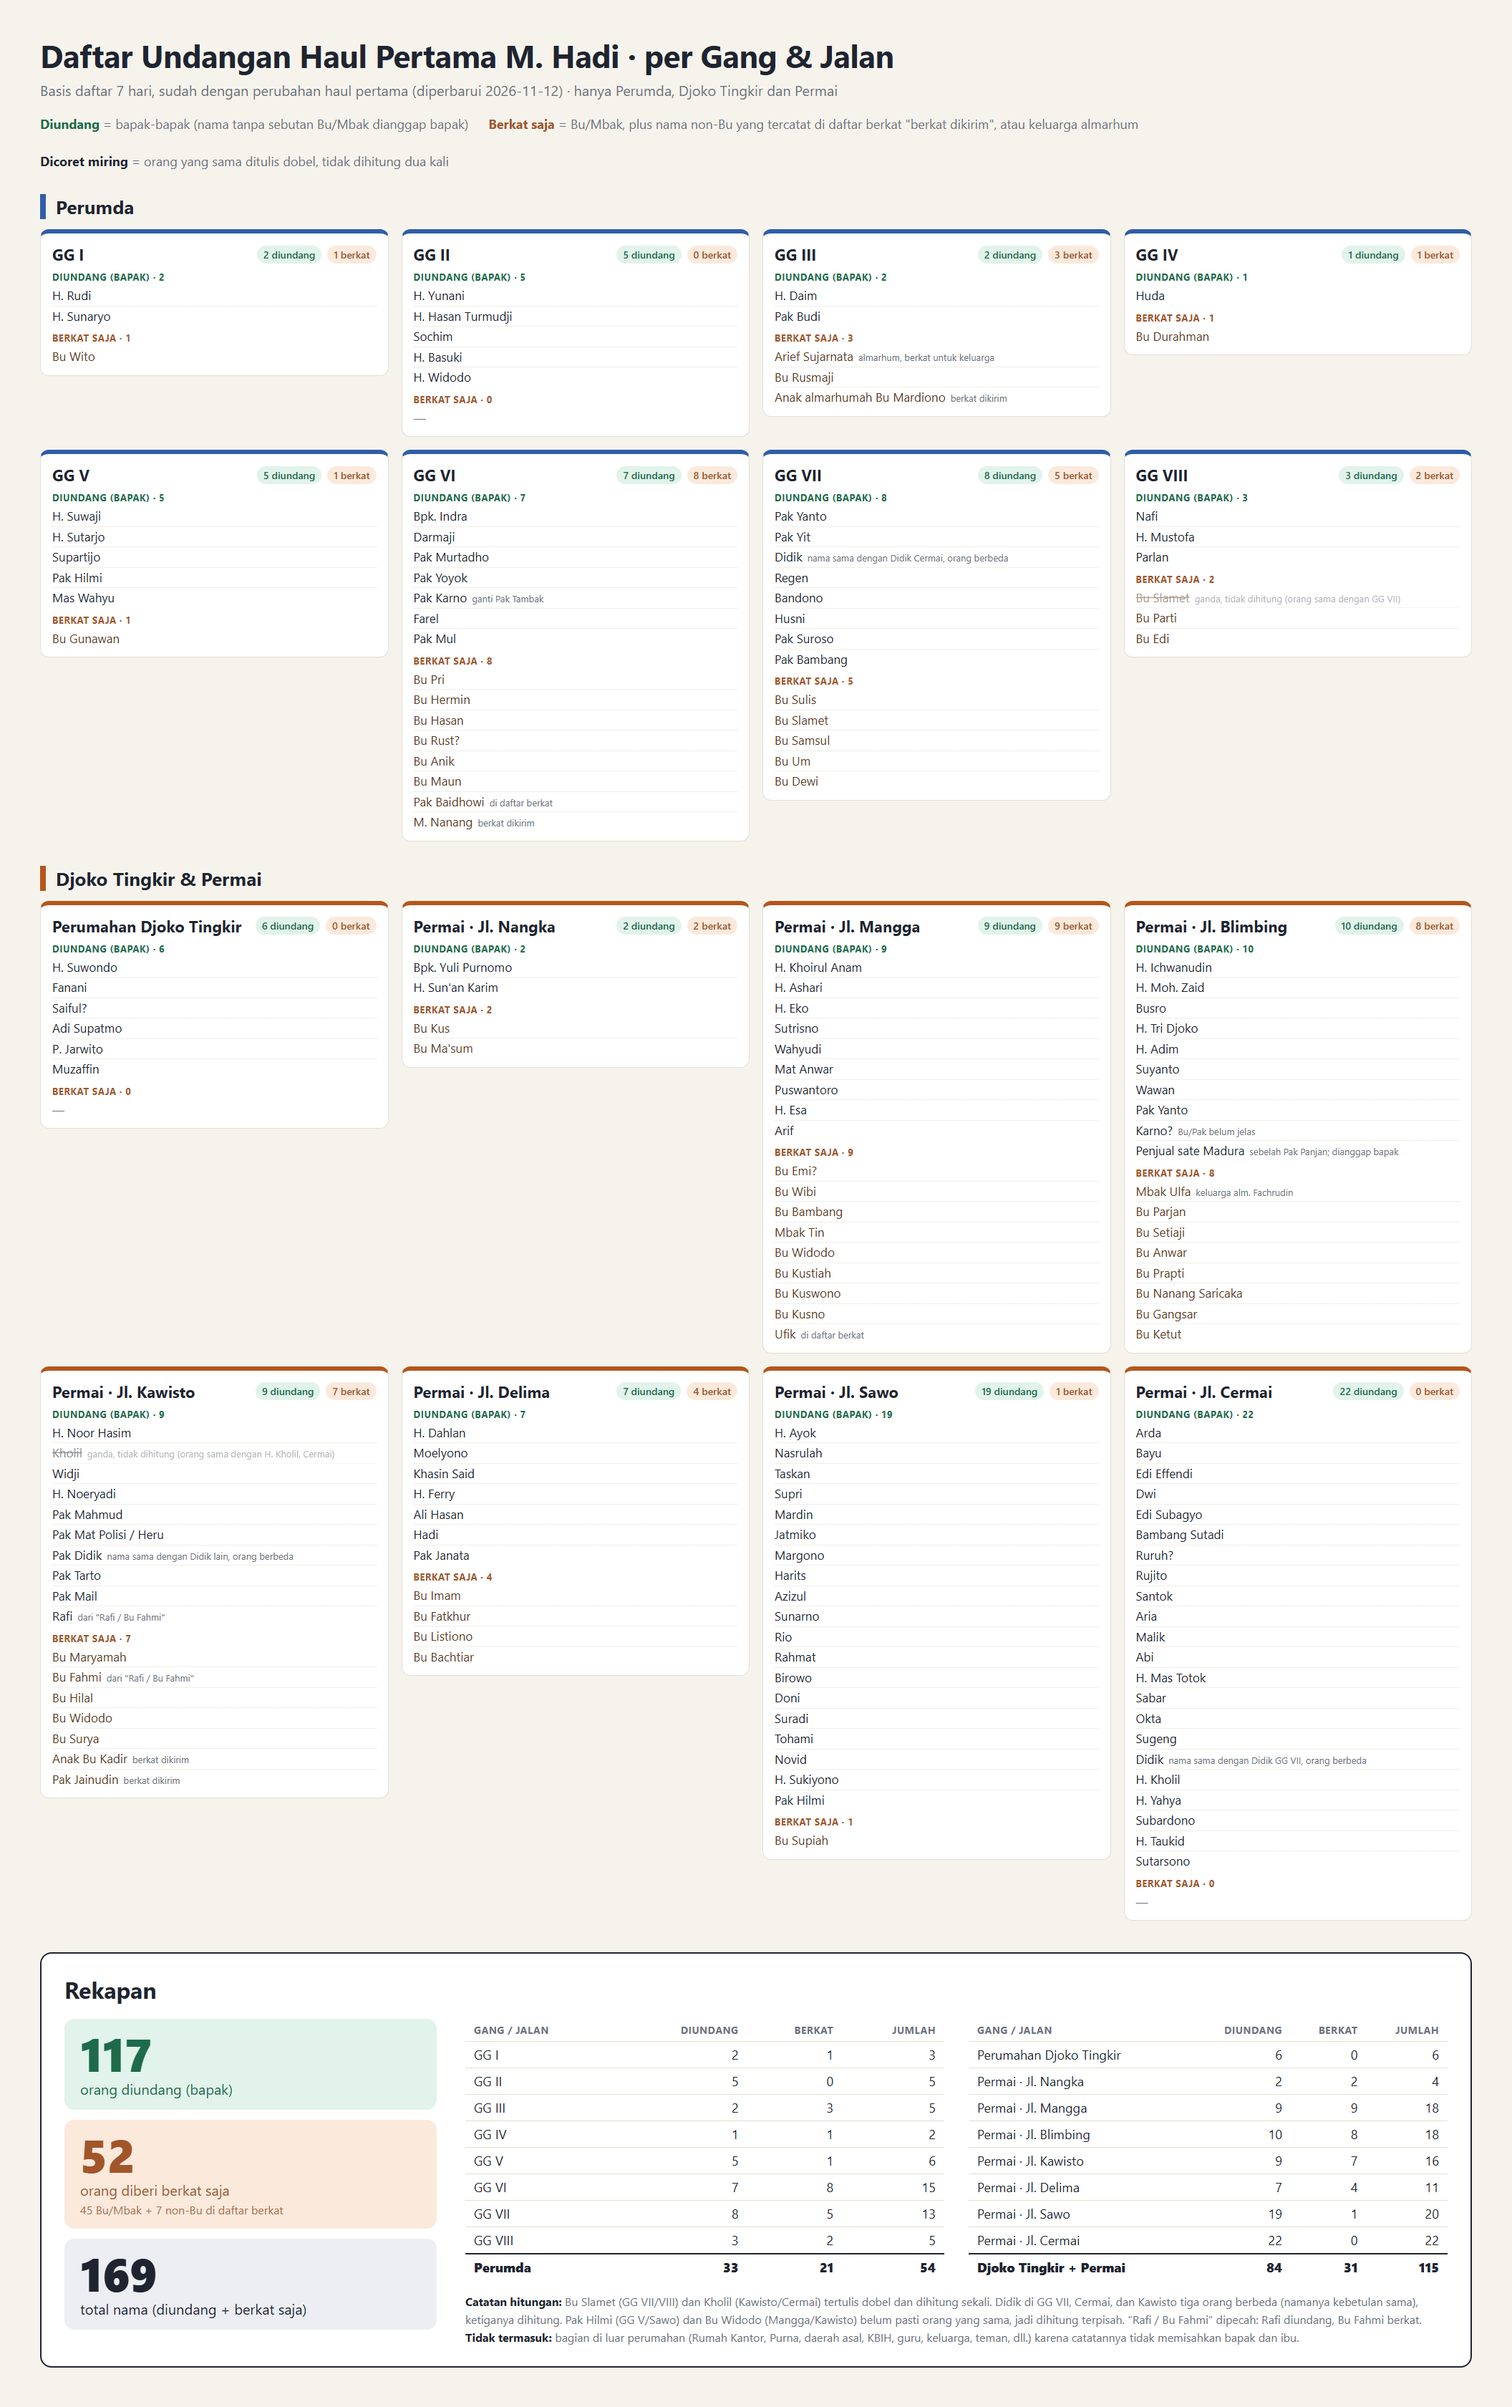
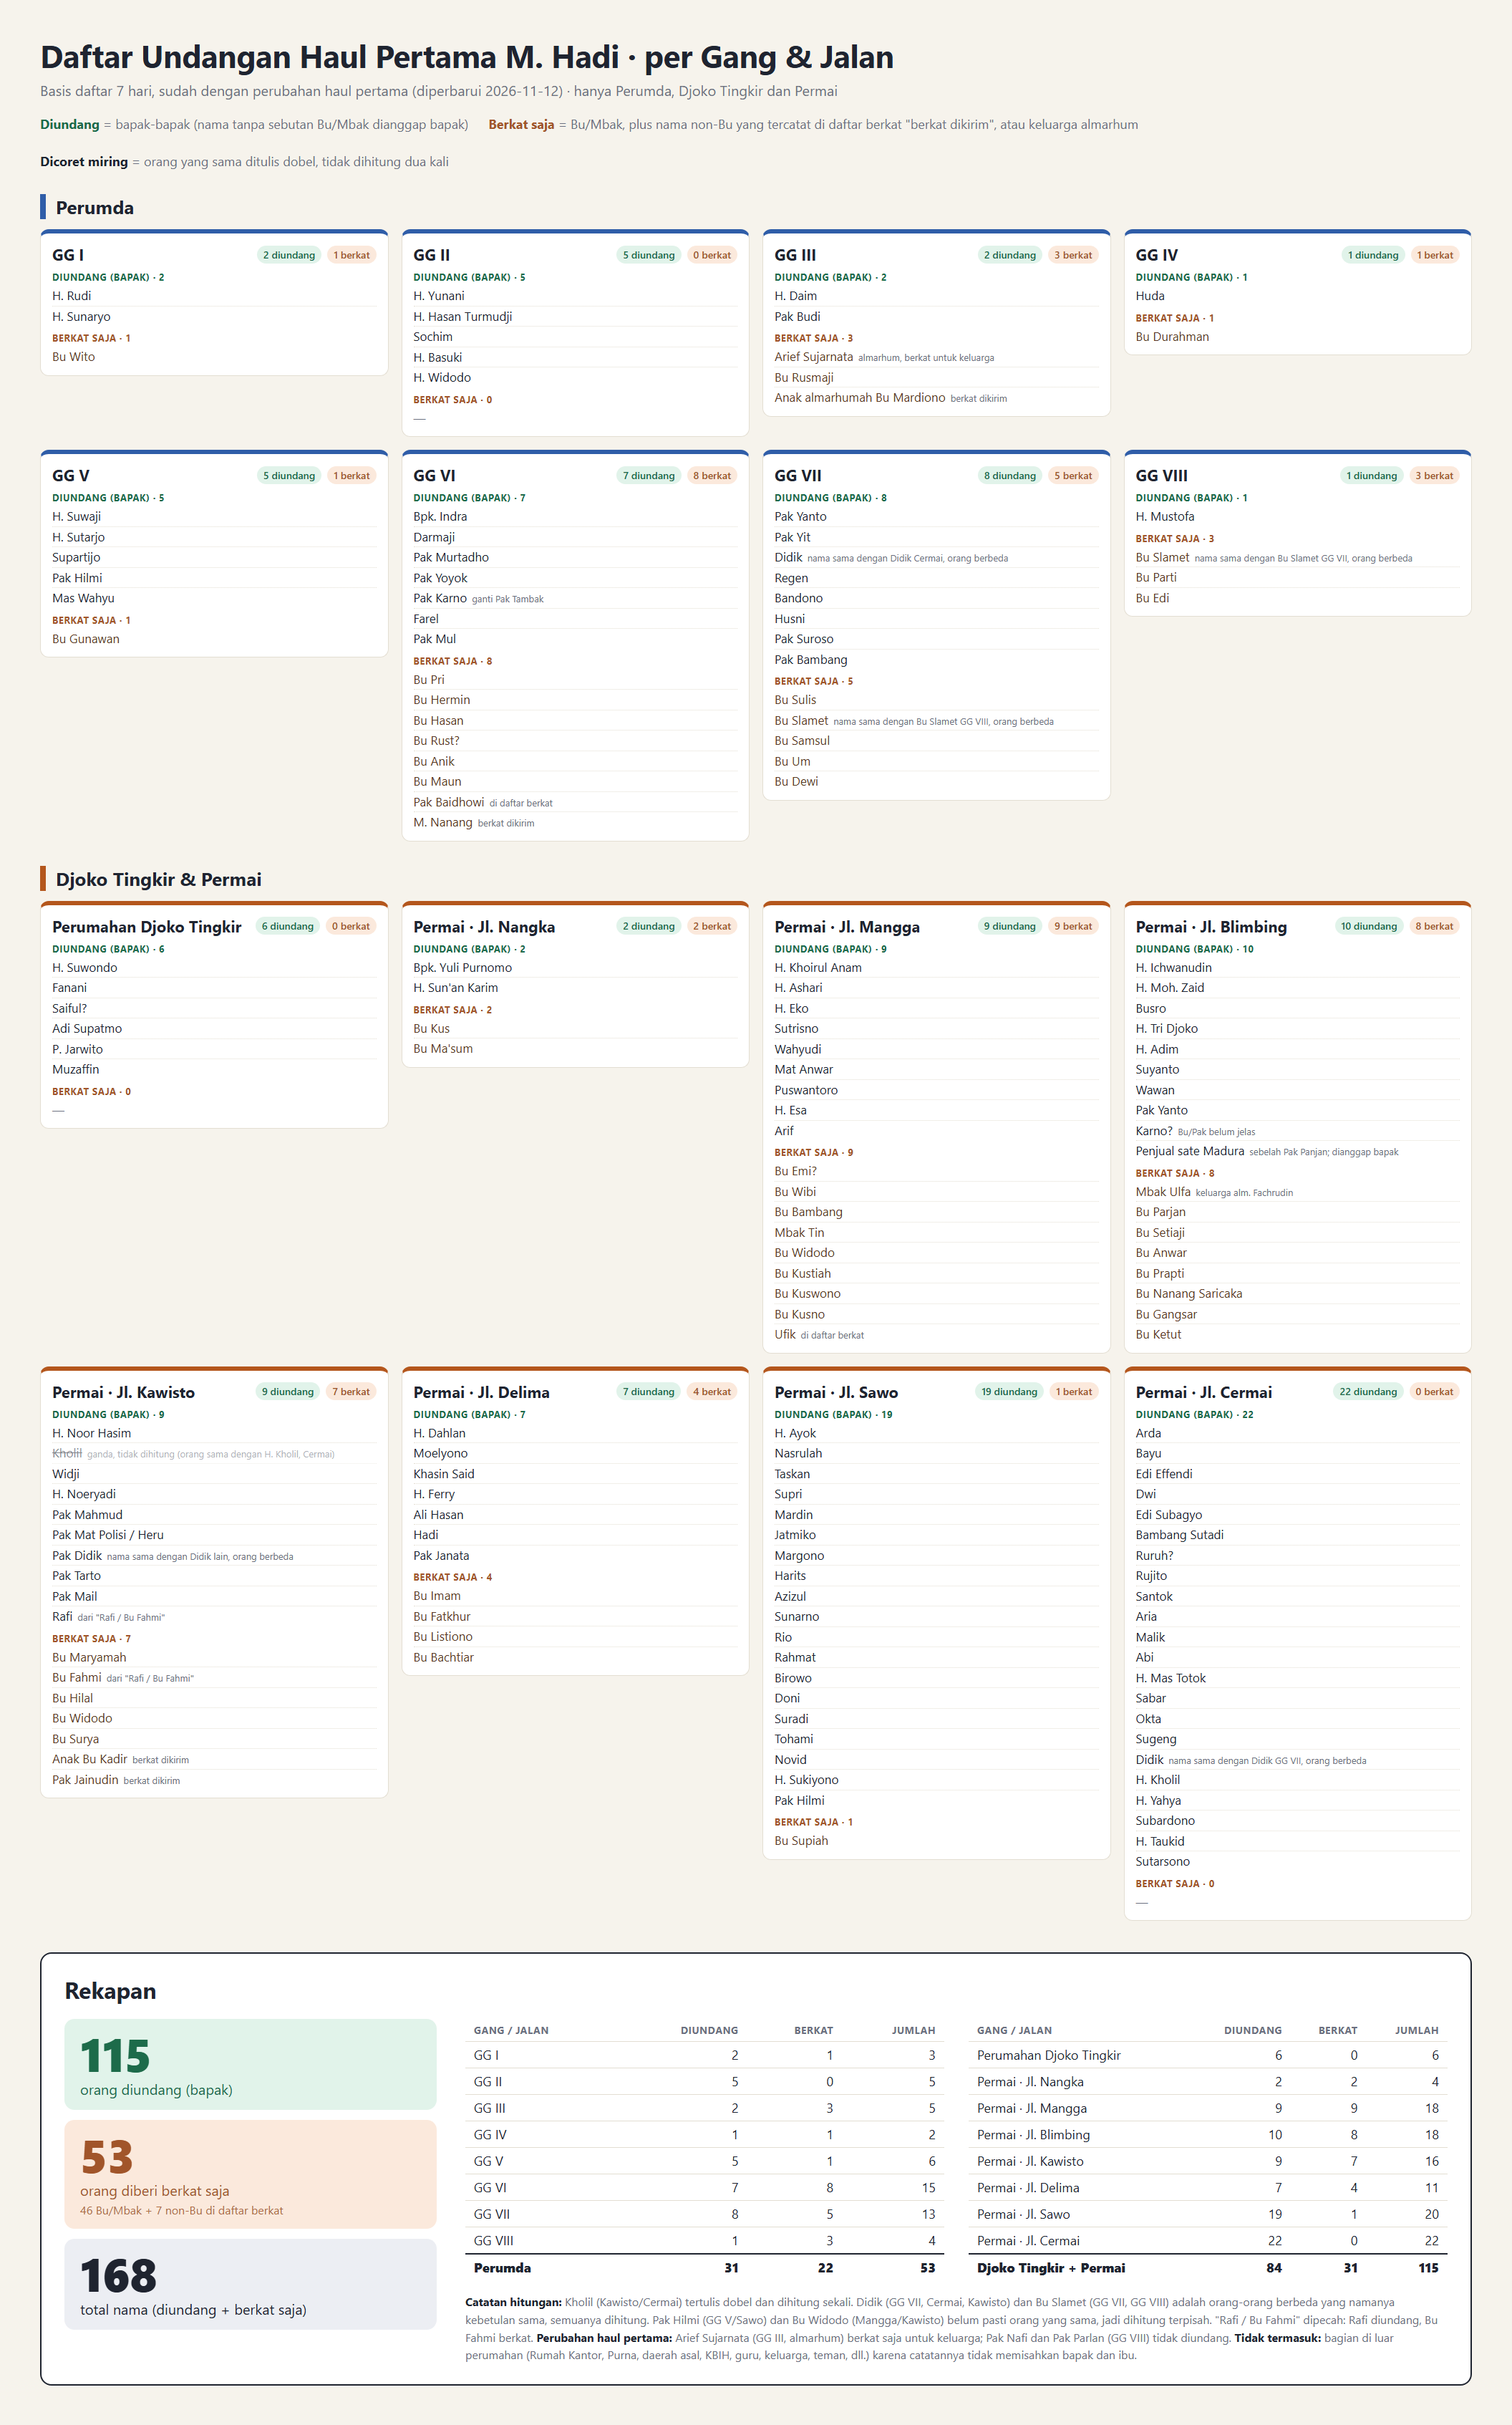
Haul pertama: Pak Nafi dan Pak Parlan (GG VIII) tidak diundang
Gambar rekap dirender ulang: diundang 115, berkat saja 53, total 168. Sekaligus memuat koreksi Bu Slamet GG VII dan VIII sebagai dua orang berbeda.

diff --git a/Acara/haul-pertama/daftar-undangan.md b/Acara/haul-pertama/daftar-undangan.md
@@ -11,6 +11,7 @@ Catat di sini orang yang ditambah (orang baru di perumahan) dan yang dihapus (su
 | Gang / jalan | Ditambah | Dihapus (meninggal) |
 |---|---|---|
 | GG III | | Arief Sujarnata: tidak diundang lagi, keluarganya diberi berkat saja |
+| GG VIII | | Nafi dan Parlan: tidak diundang |
 
 ## Aturan penyusunan
 
@@ -24,7 +25,7 @@ Catat di sini orang yang ditambah (orang baru di perumahan) dan yang dihapus (su
 
 ---
 
-## 1. Perumda (55 orang)
+## 1. Perumda (53 orang)
 
 ### GG I
 | Nama | Jenis |
@@ -116,9 +117,7 @@ Catatan update 7 hari GG 7 punya 4 nomor. Nomor 3 dan 4 dicoret (tulisannya miri
 ### GG VIII
 | Nama | Jenis |
 |---|---|
-| Nafi | U |
 | H. Mustofa | T |
-| Parlan | T |
 | Bu Slamet *(nama sama dengan Bu Slamet di GG VII, orang berbeda)* | B |
 | Bu Parti | B |
 | Bu Edi | B |
